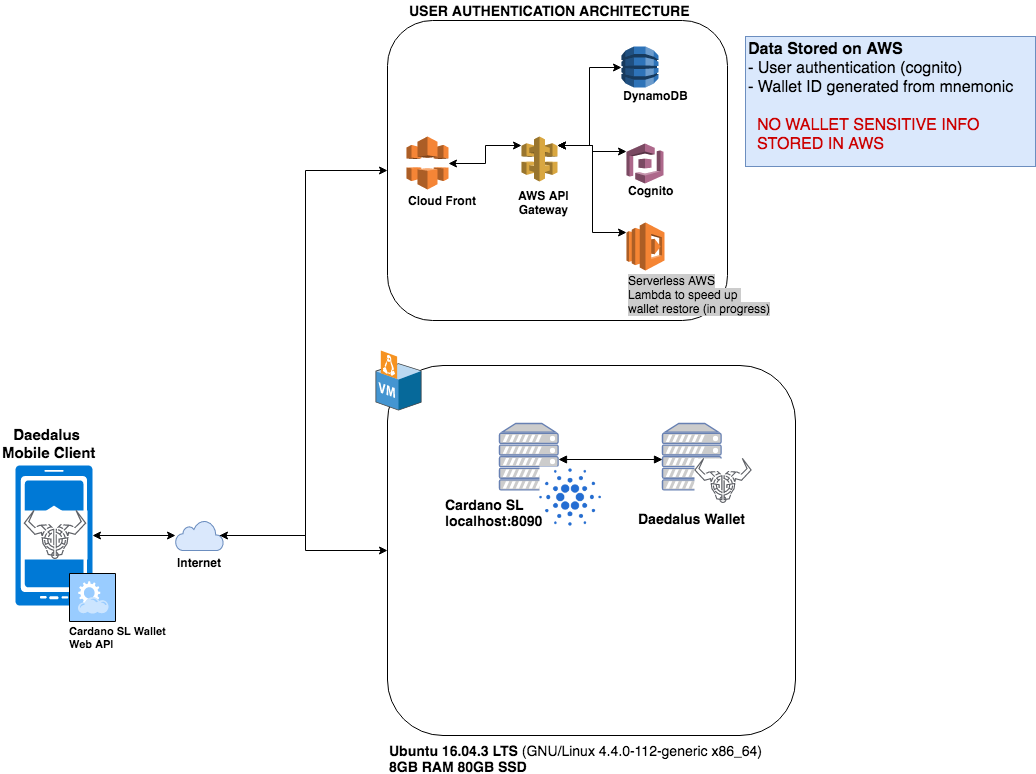
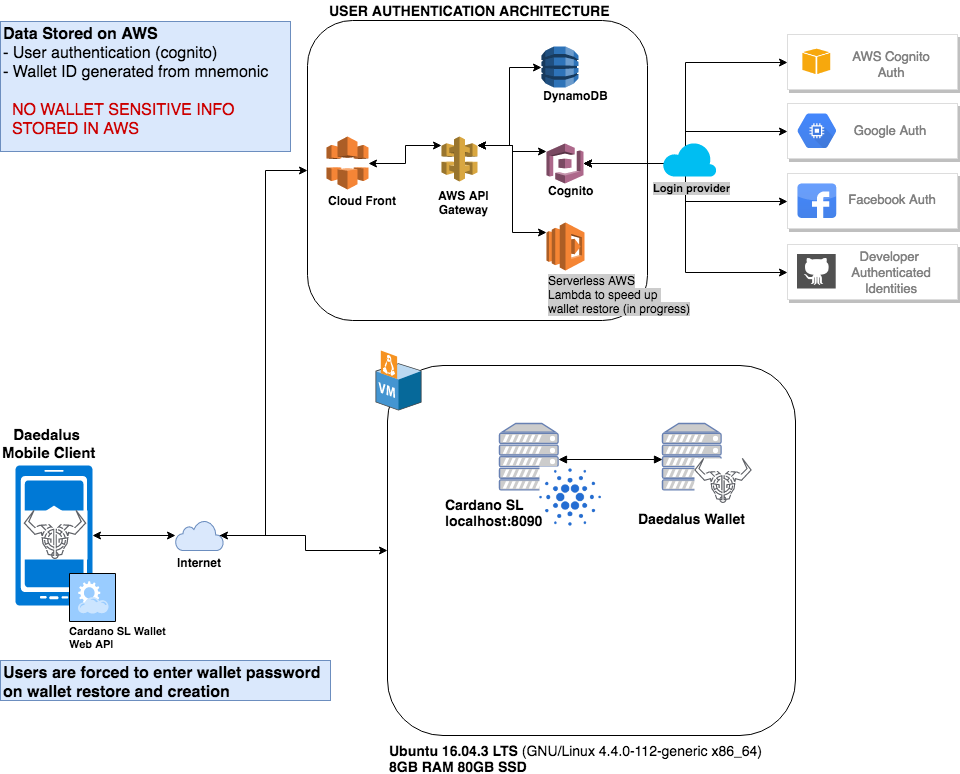
added settings terms of use, fix support toast bug, removed transaction details nav bar title, added new design image with auth providers

diff --git a/src/pages/support/support.ts b/src/pages/support/support.ts
@@ -22,11 +22,11 @@ export class SupportPage {
   }
 
   ionViewDidEnter() {
-    let toast = this.toastCtrl.create({
-      message: 'This does not actually send a support request.',
-      duration: 3000
-    });
-    toast.present();
+    // let toast = this.toastCtrl.create({
+    //   message: 'This does not actually send a support request.',
+    //   duration: 3000
+    // });
+    // toast.present();
   }
 
   submit(form: NgForm) {

diff --git a/src/pages/ada-trade/ada-trade.ts b/src/pages/ada-trade/ada-trade.ts
@@ -226,8 +226,10 @@ export class AdaTradePage {
 
   scanBarcode(){
     this.ada.scanBarCode().then((data)=>{
[1 lines of base64/hex data omitted]
       // this.receiver.value =
       console.log(data);
+      this.receiver.setValue((<any>data).text);
     }).catch((error)=>{
       console.log(error);
     })

diff --git a/src/pages/ada-settings/ada-settings.html b/src/pages/ada-settings/ada-settings.html
@@ -4,6 +4,7 @@
   See http://ionicframework.com/docs/components/#navigation for more info on
   Ionic pages and navigation.
 -->
+
 <ion-header>
   <ion-navbar>
     <button ion-button menuToggle>

diff --git a/src/pages/ada-transaction-detail/ada-transaction-detail.html b/src/pages/ada-transaction-detail/ada-transaction-detail.html
@@ -7,7 +7,7 @@
 <ion-header>  
   <ion-toolbar>
     <ion-title>
-      RECOVERY PHRASE
+      
     </ion-title>
     <ion-buttons start>
       <button ion-button (click)="dismiss()">
